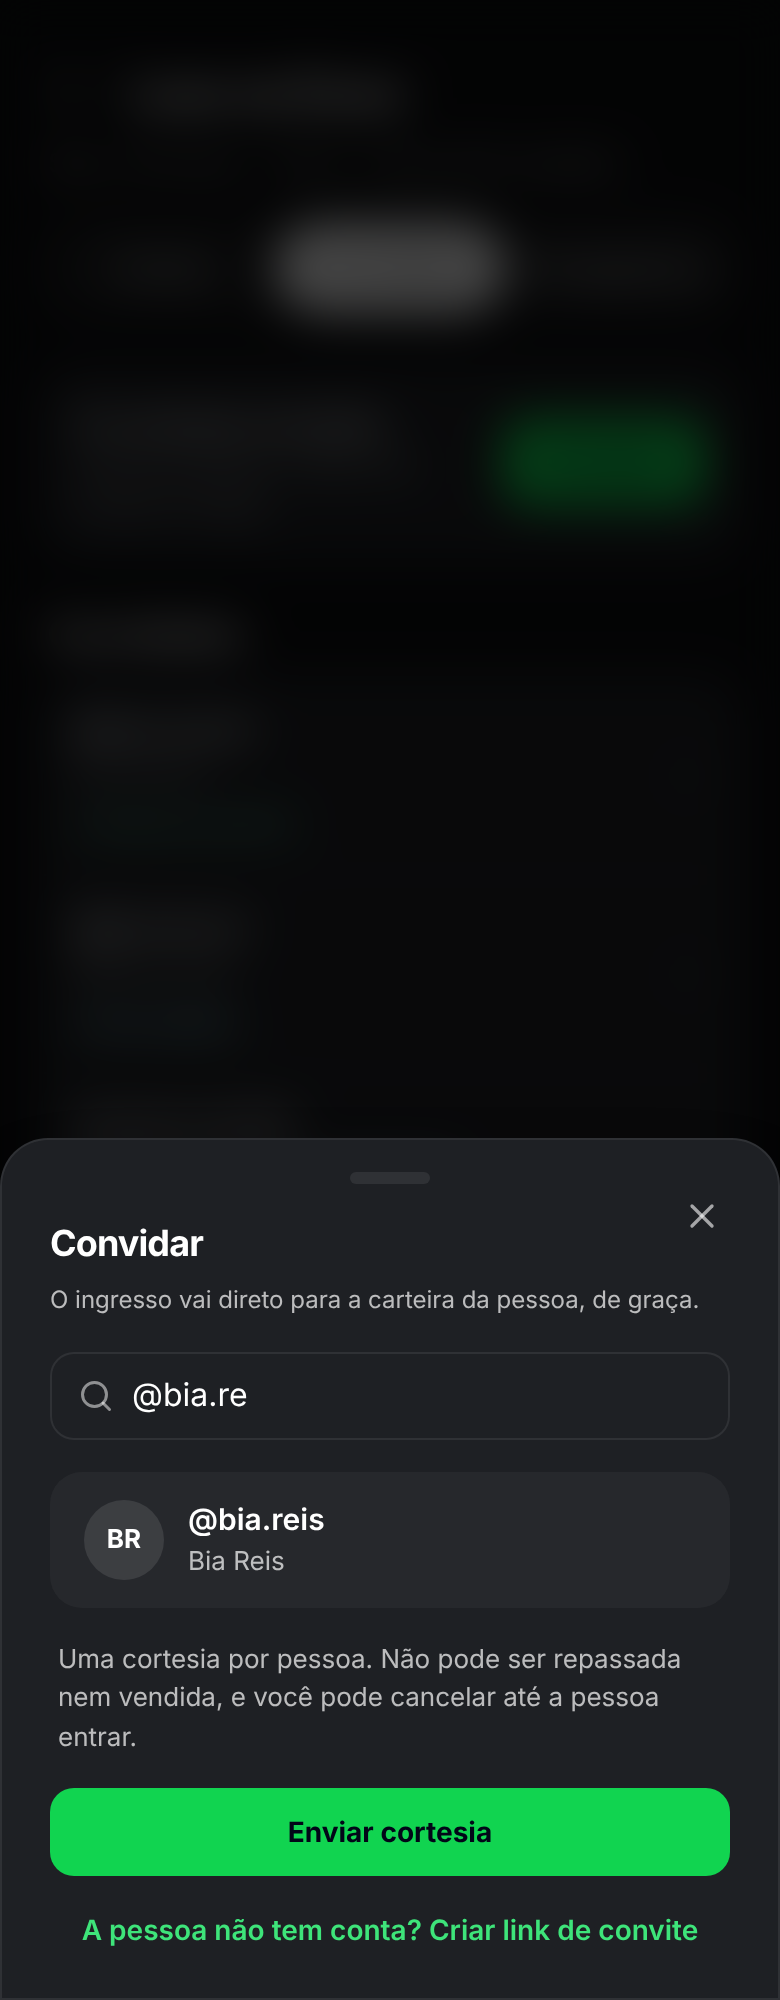
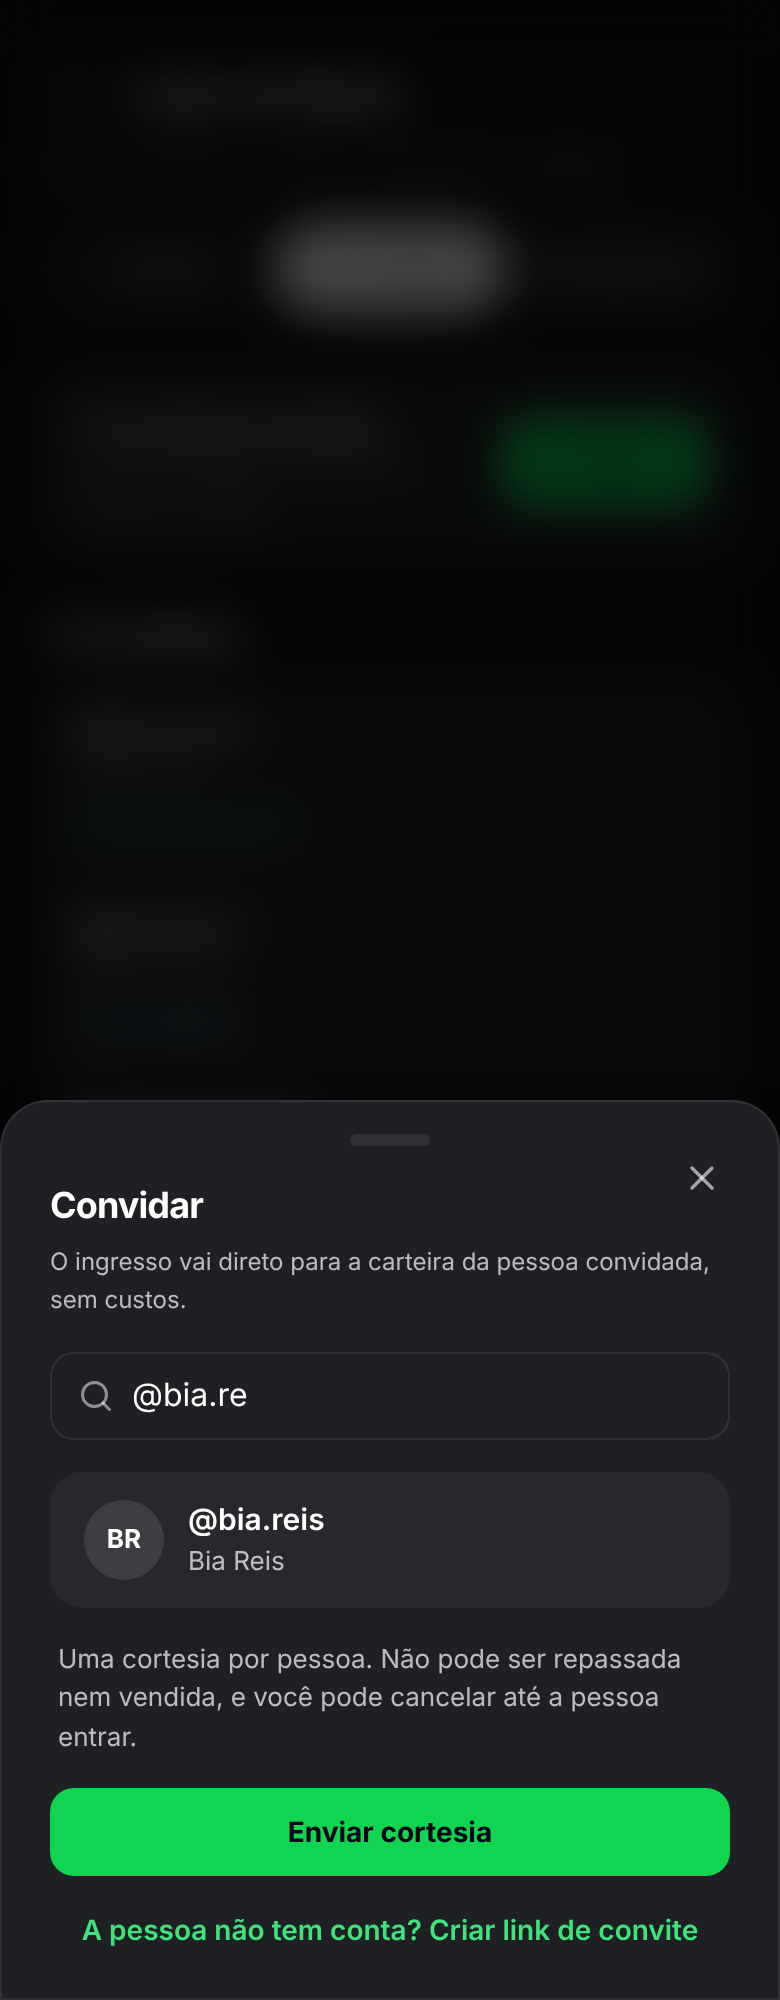
Painel do parceiro: decisões aprovadas (D27), débito B37 dos contatos e prints da portaria
Claude-Session: https://claude.ai/code/session_01B4DS9rUAeoBCKcvRgBPDfP

diff --git a/docs/arquitetura/propostas/painel-parceiro-convidados-divulgadores.md b/docs/arquitetura/propostas/painel-parceiro-convidados-divulgadores.md
@@ -1,7 +1,7 @@
 # Proposta — Painel do parceiro, lista de convidados e divulgadores (2026-11-03)
 
 Status: **em aberto** (decisões de 2026-11-04 na seção 6; aguarda aprovação dos desenhos e das seções 7 a 9).
-Desenhos: `docs/arquitetura/propostas/painel-parceiro/` (p01 a p28, índice na seção 11; verde da D26).
+Desenhos: `docs/arquitetura/propostas/painel-parceiro/` (p01 a p35, índice na seção 11; verde da D26).
 
 ## 1. Referências
 
@@ -116,7 +116,7 @@ Hoje a edição junta conteúdo e operação (lotes, vendas, participantes, chec
 
 ## 11. Índice dos desenhos (revisão de conteúdo, 2026-11-04)
 
-Atalhos do topo: Início, Agenda, Anúncios, Ganhos e Mais. "Precisa de você" passou a se chamar "Resolva agora" (nome em aberto).
+Atalhos do topo: Início, Agenda, Anúncios, Ganhos e Mais. "Precisa de você" passou a se chamar "Resolva agora" (aprovado em 2026-11-04, D27).
 
 | Nº | Aba | Tela ou folha | Função |
 |---|---|---|---|
@@ -133,7 +133,7 @@ Atalhos do topo: Início, Agenda, Anúncios, Ganhos e Mais. "Precisa de você" p
 | p11 | Anúncios | Evento · Vendas | vendido, a receber, sessões e pedidos |
 | p12 | Anúncios | Folha do pedido | detalhe do pedido e situação do reembolso |
 | p13 | Anúncios | Evento · Convidados | lista de cortesias por sessão |
-| p14 | Anúncios | Folha Convidar | convite pelo @ ou por link pessoal |
+| p14 | Anúncios | Folha Convidar | convite pelo @ ou por link pessoal; "O ingresso vai direto para a carteira da pessoa convidada, sem custos." |
 | p15 | Anúncios | Folha Link de convite criado | link de uso único, enviar pelo WhatsApp |
 | p16 | Anúncios | Evento · Divulgadores | divulgadores, vendas por link e valor devido |
 | p17 | Anúncios | Folha Adicionar divulgador | comissão, valor por ingresso ou cachê fixo |
@@ -148,3 +148,17 @@ Atalhos do topo: Início, Agenda, Anúncios, Ganhos e Mais. "Precisa de você" p
 | p26 | Conta do usuário | Divulgação | eventos que a pessoa divulga, link e resultado |
 | p27 | Conta do usuário | Folha Convite para divulgar | aceitar ou recusar, com as regras do ganho |
 | p28 | Fora do app | Página do link de cortesia | entrar ou criar conta para receber a cortesia |
+| p29 | Início | Início no dia de portaria | cartão "Portaria" no topo, de 2 h antes do início até o fim da sessão, com "Abrir portaria" |
+| p30 | Agenda | Folha Portaria | números da sessão, lista para usar sem internet e "Abrir modo portaria" |
+| p31 | Portaria | Modo portaria lendo | tela que já existe (D21): câmera aberta, moldura, "Inserir código" |
+| p32 | Portaria | Folha Código Token | código de 8 caracteres abaixo do QR, quando a câmera não lê |
+| p33 | Portaria | Entrada liberada | verde até tocar em "Próximo" |
+| p34 | Portaria | Entrada recusada | vermelho, com o motivo (ex.: já entrou) |
+| p35 | Portaria | Atenção | amarelo, ex.: ingresso de outra sessão |
+
+### 11.1. Modo portaria no painel
+
+A portaria (D21, já implementada) entra por três caminhos: o cartão "Portaria" no topo do Início no dia (p29), a sessão na Agenda (p07 → p30) e a página do evento ou da atração. Vale para eventos e para entradas de atrações privadas; reservas de passeio, aluguel e translado usam a confirmação de chegada do horário (p06).
+
+**Pendência (a desenhar):** o parceiro escolher outros aparelhos (equipe) para usar o modo portaria durante o evento ou a atração. Modelo e proposta ainda serão feitos; até lá, o item "Equipe da portaria" em Mais (p24) não entra na implementação.
+

diff --git a/docs/arquitetura/debitos.md b/docs/arquitetura/debitos.md
@@ -24,6 +24,7 @@
 | B32 | `src/domain/admin/components/AdminPanel.tsx`, `AdminDispatcher.tsx`, `subcomponents/*` (abas Relatórios, Parceiros, Guia Local, Agenda, Planos e Avisos, navegação e acesso negado) | §12 (texto fixo em português) e §11.1 (cores fixas do tema escuro, `bg-[#020508]`, `text-white/50`) | médio — painel só de admin, mas no tema claro depende das sobrescritas globais (B25) e em `en`/`fr` aparece em português | 19.x: namespace `admin` e tokens `--ug-*`; as abas Verificações e Financeiro já seguem o padrão |
 | B33 | telas ainda não levadas ao visual D17 (cerca de 15 arquivos com `Intl.DateTimeFormat` próprio no fuso de Fortaleza e botões com classes escritas à mão) | §13 (um lugar só para cada regra) e §11.1 | baixo — o comportamento está certo, mas cada tela repete a mesma formatação e o mesmo botão | ao levar cada tela ao visual D17, usar `src/ui/styles/controls.ts`, `src/ui/components/ListState.tsx` e `formatBusiness*` de `src/shared/utils/businessDateTime.ts` (20.2) |
 | B34 | `server/domain/reviews/controllers/reviewController.ts` e `adapters/firestoreReviewAdapter.ts` (avaliar, responder, excluir) | §10.2 (devolve `err.message` e erro sem `code`) e §9.4 (nota do lugar recalculada fora de transação ao excluir) | médio — mensagem interna pode vazar ao cliente e duas exclusões ao mesmo tempo podem deixar a nota errada | erros tipados com `code` estável como em `reviewReportError.ts`, e recálculo da nota na mesma transação da exclusão; a denúncia (20.5) já segue o padrão novo |
+| B37 | contato do parceiro nos anúncios: campos `phone`, `websiteLink`, `instagramLink`, `bookingLink` de itens e eventos (Editar evento, p18 da proposta do painel) e textos livres (descrição, regras) sem filtro | regra de produto de 2026-11-04: a compra deve acontecer pelo Use Guide; §8.1 (a plataforma é a vendedora) | alto — contato direto permite negociar e pagar por fora, sem a proteção do comprador, sem taxa e sem prova de check-in | definir em breve, com referência no Airbnb: quais contatos aparecem e para quem (ex.: só depois da compra, ou só para itens não vendáveis); bloqueio de telefone, chave Pix, conta bancária, e-mail e links externos nas descrições, nos títulos e nas mensagens, com validação no backend; denúncia e cláusula nos termos do parceiro |
 
 ## Resolvidos
 

diff --git a/docs/arquitetura/decisoes.md b/docs/arquitetura/decisoes.md
@@ -379,3 +379,16 @@ Aprovada pelo responsável do produto em 2026-11-03.
 * **Folhas no tema claro seguem as telas:** fundo bege (#f3eee4) e cartões claros (#faf6ee) com borda (`bg-sheet`, `bg-sheet-card`, `border-sheet-card-line`). No escuro nada muda.
 * **Interruptores:** bolinha sempre branca, nos dois temas.
 * **AGENTS.md §11.1** atualizado com a cor nova (autorizado em 2026-11-03).
+
+## D27 — Painel do parceiro, convidados e divulgadores (2026-11-04)
+
+Aprovada pelo responsável do produto em 2026-11-04. Proposta e desenhos: `docs/arquitetura/propostas/painel-parceiro-convidados-divulgadores.md` (p01 a p34).
+
+* **Painel sem barra inferior:** atalhos no topo em quadrados levemente arredondados (Início, Agenda, Anúncios, Ganhos, Mais); Início com cartões personalizáveis.
+* **"Resolva agora"** é o nome da seção fixa de prazos no topo do Início (antes "Precisa de você").
+* **Cortesias:** proteções da seção 7 da proposta aprovadas (uma por pessoa por evento; sem cortesia para quem comprou, cancelou ou foi reembolsado naquele evento; sem reembolso nem transferência; sem repasse nem taxa; cláusula nova nos termos do parceiro; relatório e alerta para o admin).
+* **Link pessoal de convite** para quem não tem conta: uso único, vale até o início do evento, enviado pelo parceiro (seção 8).
+* **Editar evento x página do evento:** divisão da seção 9 aprovada (a edição fica só com o cadastro; vendas, convidados, divulgadores, portaria e financeiro saem para a página do evento, a Agenda e Ganhos).
+* **Texto da folha Convidar:** "O ingresso vai direto para a carteira da pessoa convidada, sem custos."
+* **Em aberto (não implementar até decidir):** nome da aba "Anúncios" (conflita com os anúncios patrocinados que virão); nome do "painel do parceiro"; contatos nos anúncios (B37); escolha de outros aparelhos para o modo portaria (a desenhar).
+* **Depois da implementação:** relatório das funções e configurações que ficaram fora das telas e folhas, e tour na primeira abertura do painel, com sequência e opção de não mostrar de novo.
